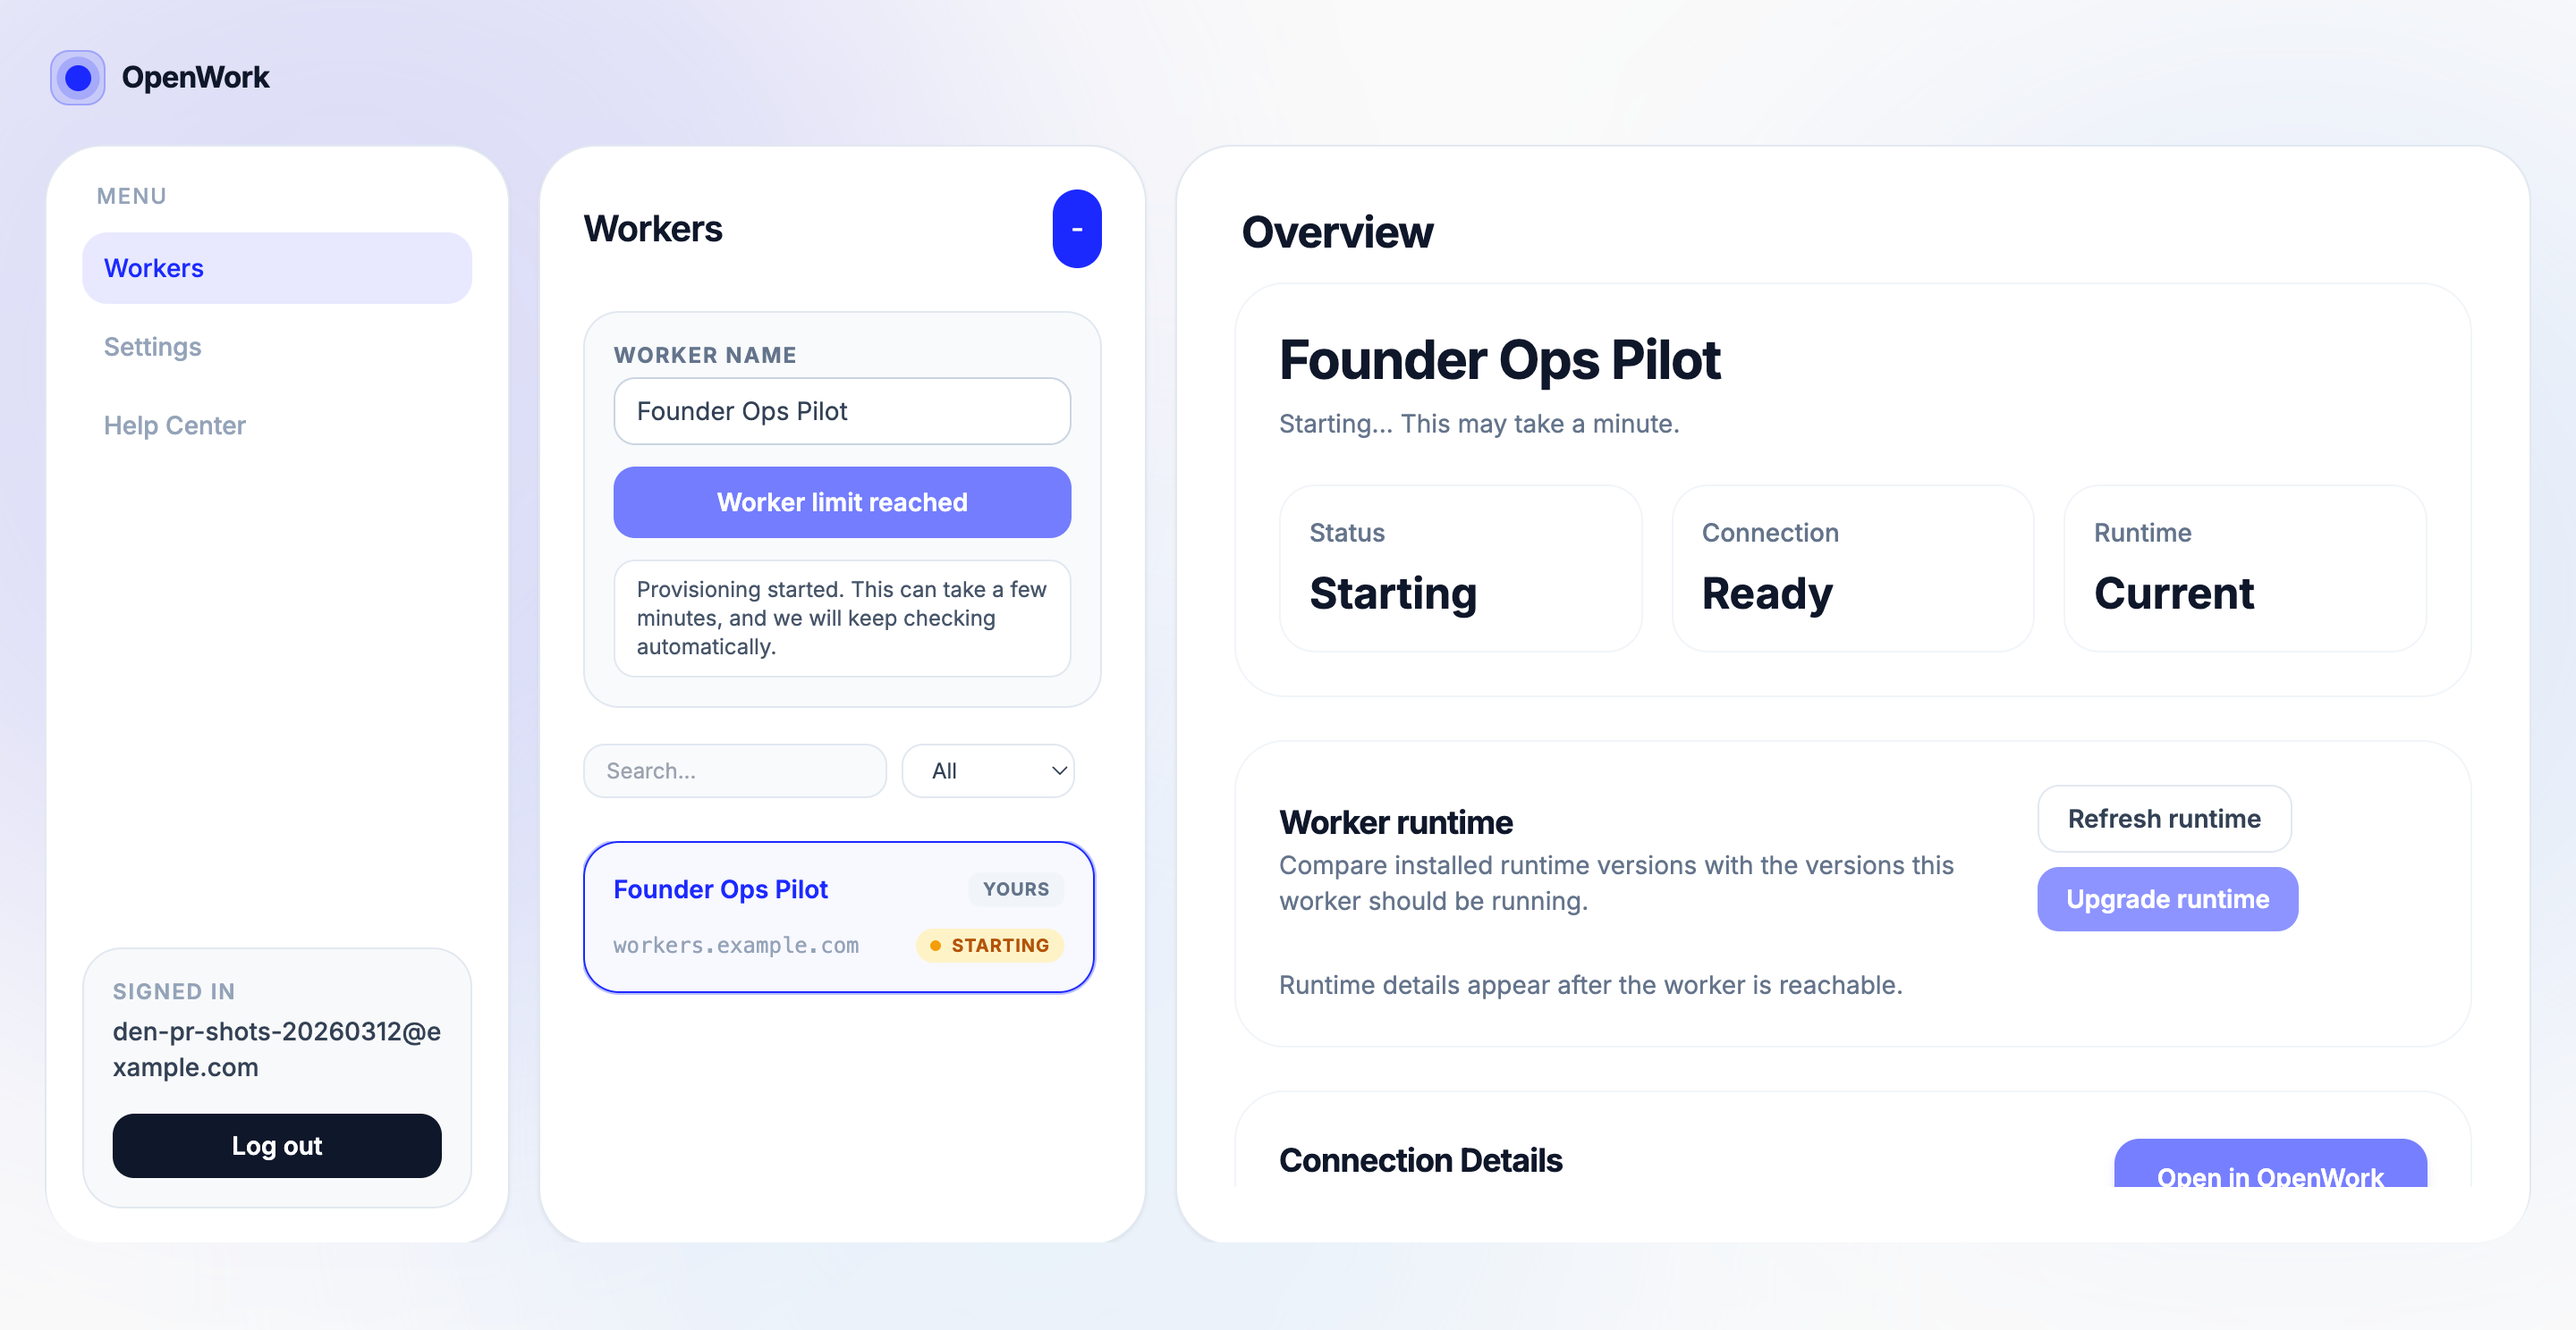
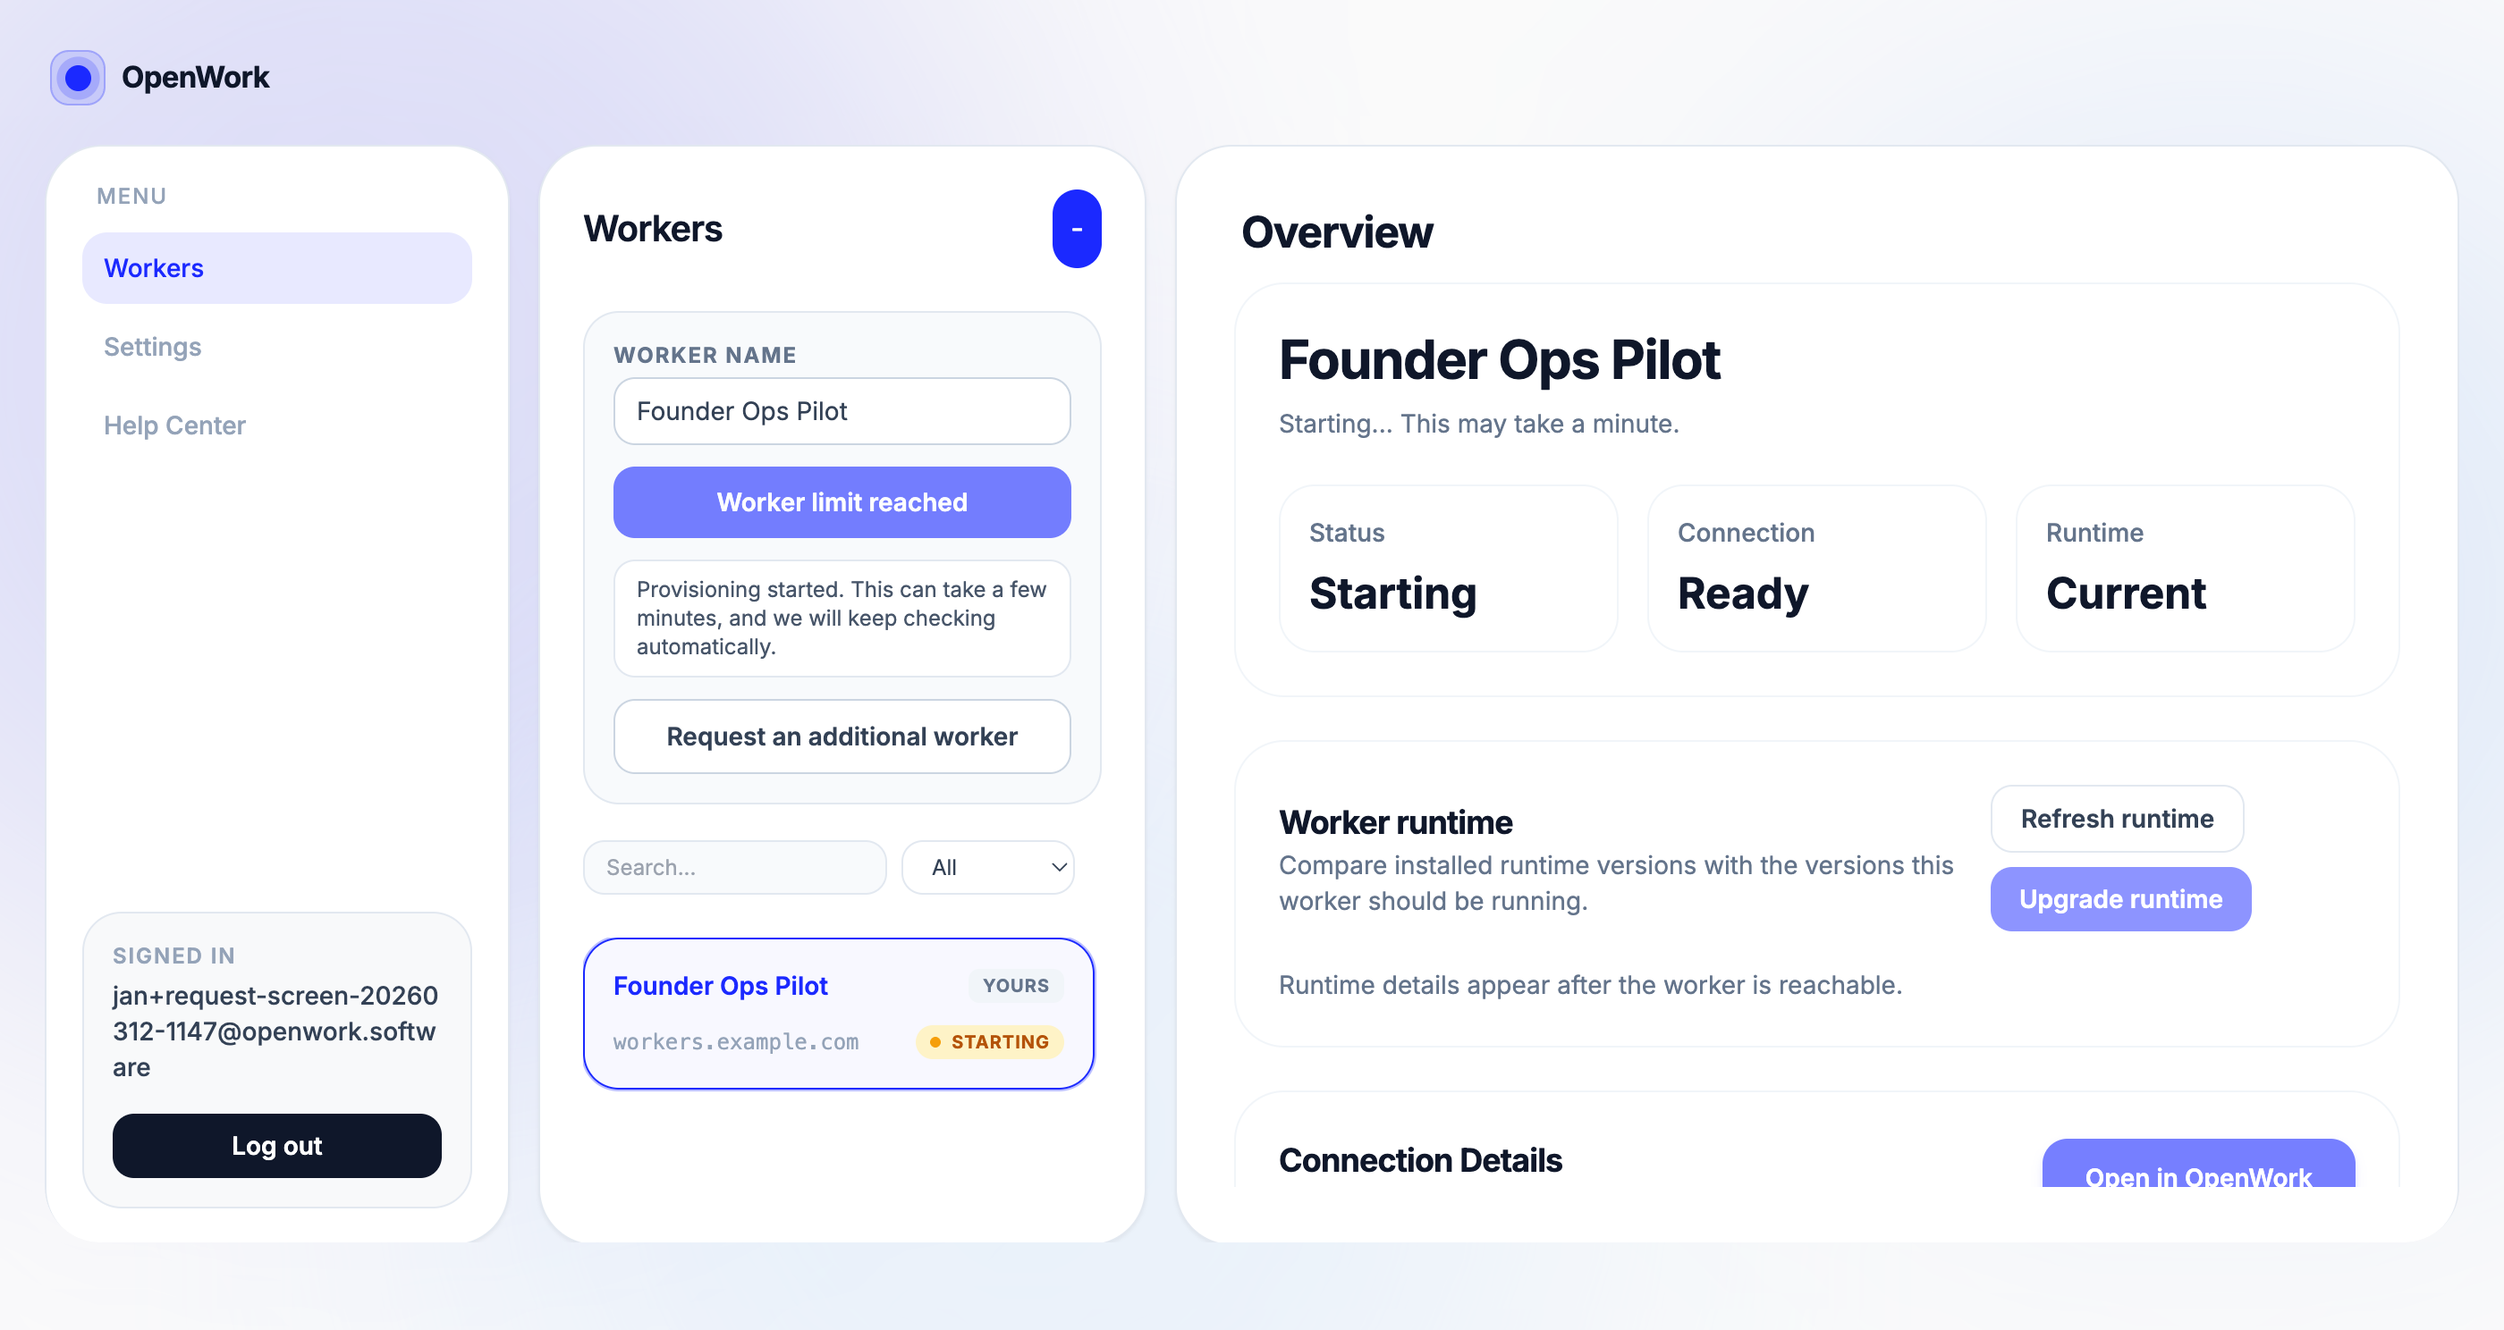
Add worker limit request action

diff --git a/packages/web/components/cloud-control.tsx b/packages/web/components/cloud-control.tsx
@@ -257,6 +257,17 @@ function getExperimentBillingSummary(): BillingSummary {
   };
 }
 
+function getAdditionalWorkerRequestHref(): string {
+  const subject = "requesting an additional worker";
+  const body = [
+    "Hey Ben,",
+    "",
+    "I would like to create an additional worker in order to {INSERT REASON}"
+  ].join("\n");
+
+  return `mailto:ben@openwork.software?subject=${encodeURIComponent(subject)}&body=${encodeURIComponent(body)}`;
+}
+
 function GitHubLogo() {
   return (
     <svg viewBox="0 0 16 16" aria-hidden="true" className="ow-social-icon">
@@ -2760,10 +2771,12 @@ export function CloudControlPanel() {
                           type="button"
                           className="w-full rounded-[12px] bg-[#1B29FF] px-3 py-2.5 text-sm font-semibold text-white transition hover:bg-[#151FDA] disabled:cursor-not-allowed disabled:opacity-60"
                           onClick={handleLaunchWorker}
-                          disabled={!user || launchBusy || worker?.status === "provisioning"}
+                          disabled={!user || launchBusy || worker?.status === "provisioning" || workerLimitReached}
                         >
                           {launchBusy
                             ? "Starting worker..."
+                            : workerLimitReached
+                              ? "Worker limit reached"
                             : worker?.status === "provisioning"
                               ? "Worker is starting..."
                               : `Launch "${workerName || "Cloud Worker"}"`}
@@ -2774,6 +2787,15 @@ export function CloudControlPanel() {
                             <p className="text-xs text-slate-600">{launchStatus}</p>
                             {launchError ? <p className="mt-1 text-xs font-medium text-rose-600">{launchError}</p> : null}
                           </div>
+                        ) : null}
+
+                        {workerLimitReached ? (
+                          <a
+                            href={getAdditionalWorkerRequestHref()}
+                            className="mt-3 inline-flex w-full items-center justify-center rounded-[12px] border border-slate-300 bg-white px-3 py-2.5 text-sm font-semibold text-slate-700 transition hover:border-slate-400 hover:text-slate-900"
+                          >
+                            Request an additional worker
+                          </a>
                         ) : null}
 
                         {effectiveCheckoutUrl ? (
@@ -2881,6 +2903,15 @@ export function CloudControlPanel() {
                           <p className="text-xs text-slate-600">{launchStatus}</p>
                           {launchError ? <p className="mt-1 text-xs font-medium text-rose-600">{launchError}</p> : null}
                         </div>
+                      ) : null}
+
+                      {workerLimitReached ? (
+                        <a
+                          href={getAdditionalWorkerRequestHref()}
+                          className="mt-3 inline-flex w-full items-center justify-center rounded-[12px] border border-slate-300 bg-white px-3 py-2.5 text-sm font-semibold text-slate-700 transition hover:border-slate-400 hover:text-slate-900"
+                        >
+                          Request an additional worker
+                        </a>
                       ) : null}
 
                       {/* TODO(den-free-first-worker): Restore checkout CTA block when paywall returns. */}
